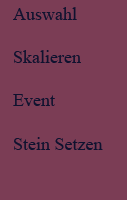
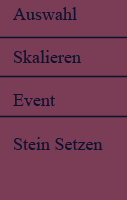
Auswahlmodus fast fertig

Changed region(s): [[0.0, 0.57, 1.0, 0.6], [0.0, 0.36, 1.0, 0.39], [0.0, 0.18, 1.0, 0.21]]

diff --git a/LevelEditor/LevelEditor/LevelEditor/Eventhandler.cpp b/LevelEditor/LevelEditor/LevelEditor/Eventhandler.cpp
@@ -1,8 +1,19 @@
 #include "EventHandler.h"
 
-void S_EventHandler::handle_events(SDL_Event even)
+void S_EventHandler::handle_events(SDL_Event even,bool & quitgame)
 {
-	S_Overlay::get_Overlay().handle_Events(even);
+	S_Overlay::get_Overlay().handle_Events(even,quitgame);
+
+	if(S_LevelEditor::get_LevelEditor().get_ChoiceMode() == true)
+	{
+		if(even.type == SDL_MOUSEBUTTONDOWN)
+		{
+			if(even.button.button == SDL_BUTTON_LEFT)
+			{
+			S_CollisibalObjectManager::get_CManager().find(even.button.x,even.button.y);
+			}
+		}
+	}
 
 	if(even.type == SDL_KEYDOWN)
 	{
@@ -13,7 +24,10 @@ void S_EventHandler::handle_events(SDL_Event even)
 		case(SDLK_DOWN):S_LevelEditor::get_LevelEditor().get_MainEditorSource()->set_Position(S_LevelEditor::get_LevelEditor().get_MainEditorSource()->get_Position()->x,S_LevelEditor::get_LevelEditor().get_MainEditorSource()->get_Position()->y + 10);KeyPressTimer->start();b_Down = true;break;
 		case(SDLK_RIGHT):S_LevelEditor::get_LevelEditor().get_MainEditorSource()->set_Position(S_LevelEditor::get_LevelEditor().get_MainEditorSource()->get_Position()->x + 10,S_LevelEditor::get_LevelEditor().get_MainEditorSource()->get_Position()->y);KeyPressTimer->start();b_Right = true;break;
 		case(SDLK_LEFT):S_LevelEditor::get_LevelEditor().get_MainEditorSource()->set_Position(S_LevelEditor::get_LevelEditor().get_MainEditorSource()->get_Position()->x - 10,S_LevelEditor::get_LevelEditor().get_MainEditorSource()->get_Position()->y);KeyPressTimer->start();b_Left = true;break;
+		if(S_LevelEditor::get_LevelEditor().get_BlockSetMode() == true)
+		{
 		case(SDLK_SPACE):S_CollisibalObjectManager::get_CManager().set_Object(Block100x100,S_LevelEditor::get_LevelEditor().get_MainEditorSource()->get_Position()->x,S_LevelEditor::get_LevelEditor().get_MainEditorSource()->get_Position()->y);break;
+		}
 		}
 	}
 
@@ -21,7 +35,7 @@ void S_EventHandler::handle_events(SDL_Event even)
 	{
 		switch(even.key.keysym.sym)
 		{
-			case(SDLK_UP):b_Up = false; break;
+		case(SDLK_UP):b_Up = false; break;
 		case(SDLK_DOWN):b_Down = false;break;
 		case(SDLK_RIGHT):b_Right = false;break;
 		case(SDLK_LEFT):b_Left = false;break;

diff --git a/LevelEditor/LevelEditor/LevelEditor/S_CollisibalObjectManager.cpp b/LevelEditor/LevelEditor/LevelEditor/S_CollisibalObjectManager.cpp
@@ -1,4 +1,5 @@
 #include "CollisibalObjectManager.h"
+#include "LevelEditor.h"
 
 
 void S_CollisibalObjectManager::set_Object(OBJECTTYPE CURRENTOBJECT,int x, int y)
@@ -24,4 +25,43 @@ void S_CollisibalObjectManager::render()
 	{
 		myIter->render();
 	}
+}
+
+C_Block * S_CollisibalObjectManager::get_WorkingListsFirstMember()
+{
+	return &Workinglist.front();
+}
+
+void S_CollisibalObjectManager::find(int x, int y)
+{
+	if(this->Workinglist.size() == 0)
+	{
+		for(list<C_Block>::iterator myIter = Blocklist.begin();myIter != this->Blocklist.end();++myIter)
+		{
+			if(myIter->get_Position()->x <= x && myIter->get_Position()->x + 100 >= x && myIter->get_Position()->y <= y && myIter->get_Position()->y + 100 >= y)
+			{
+				Workinglist.push_back(C_Block(myIter->get_Position()->x,myIter->get_Position()->y));
+				S_LevelEditor::get_LevelEditor().get_MainEditorSource()->set_Position(myIter->get_Position()->x,myIter->get_Position()->y);
+				Blocklist.erase(myIter);
+				break;
+			}
+		}
+
+	}
+	else if(Workinglist.size() == 1)
+	{
+		for(list<C_Block>::iterator myIter = Blocklist.begin();myIter != this->Blocklist.end();++myIter)
+		{
+			if(myIter->get_Position()->x <= x && myIter->get_Position()->x + 100 >= x && myIter->get_Position()->y <= y && myIter->get_Position()->y + 100 >= y)
+			{
+				Workinglist.push_back(C_Block(myIter->get_Position()->x,myIter->get_Position()->y));
+				Blocklist.push_back(C_Block(Workinglist.front().get_Position()->x,Workinglist.front().get_Position()->y));
+				Workinglist.pop_front();
+				S_LevelEditor::get_LevelEditor().get_MainEditorSource()->set_Position(myIter->get_Position()->x,myIter->get_Position()->y);
+				Blocklist.erase(myIter);
+				break;
+			}
+		}
+	}
+
 }

diff --git a/LevelEditor/LevelEditor/LevelEditor/Overlay.cpp b/LevelEditor/LevelEditor/LevelEditor/Overlay.cpp
@@ -24,7 +24,7 @@ void S_Overlay::render(Editor * p_CurrentMainEditor)
 }
 
 
-void S_Overlay::handle_Events(SDL_Event even)
+void S_Overlay::handle_Events(SDL_Event even,bool & quitgame)
 {
 	if (even.type == SDL_MOUSEBUTTONDOWN)
 	{
@@ -56,6 +56,30 @@ void S_Overlay::handle_Events(SDL_Event even)
 				this->b_startSelected = false;
 				this->b_nothingSelected = false;
 				this->b_choiceSelected = true;
+				}
+			}
+
+
+			if(b_nothingSelected == true)
+			{
+				return;
+			}
+			else if(b_startSelected == true)
+			{
+				if(even.button.x > 0 && even.button.x <= 97 && even.button.y > 40 && even.button.y <= 80 )
+				{
+					S_LevelEditor::get_LevelEditor().load_Level();
+				}
+				else if(even.button.x > 0 && even.button.x <= 97 && even.button.y > 80 && even.button.y <= 126 )
+				{
+					S_LevelEditor::get_LevelEditor().save_Level();
+				}
+				else if(even.button.x > 0 && even.button.x <= 97 && even.button.y > 126 && even.button.y <= 170 )
+				{
+				}
+				else if(even.button.x > 0 && even.button.x <= 97 && even.button.y > 170 && even.button.y <= 240  )
+				{
+					quitgame = true;
 				}
 			}
 		}

diff --git a/LevelEditor/LevelEditor/LevelEditor/CollisibalObjectManager.h b/LevelEditor/LevelEditor/LevelEditor/CollisibalObjectManager.h
@@ -6,6 +6,8 @@
 #include <iostream>
 #include "globals.h"
 
+class S_LevelEditor;
+
 using namespace std;
 
 
@@ -13,6 +15,7 @@ class S_CollisibalObjectManager
 {
 private:
 	list<C_Block> Blocklist;
+	list<C_Block> Workinglist;
 
 	S_CollisibalObjectManager(){}
 	~S_CollisibalObjectManager(){}
@@ -20,6 +23,8 @@ private:
 public:
 	static S_CollisibalObjectManager & get_CManager(){static S_CollisibalObjectManager Instance;return Instance;}
 	void set_Object(OBJECTTYPE CURRENTOBJECT,int x, int y);
+	C_Block * get_WorkingListsFirstMember();
+	void find(int x, int y);//Funktion findet das Element, auf das geklickt wurde und tut es in die Bearbeitungsliste, wenn bearbeitungsliste nicht leer, wird das element us der bearbeitungsliste wieder wie vorher gerendert
 	void show_Insertions();
 	void render();
 };

diff --git a/LevelEditor/LevelEditor/LevelEditor/GameApplicationLayer.cpp b/LevelEditor/LevelEditor/LevelEditor/GameApplicationLayer.cpp
@@ -14,8 +14,9 @@ void GameApplicationLayer::game_Loop()
 	//erstellen der Anfangsinstanzen
 	SDL_Init(SDL_INIT_EVERYTHING);
 
+	b_quitgame = false;
 	//Beginn der eigentlichen Schleife
-	while(this->b_quitgame == false)
+	while(b_quitgame == false)
 	{
 		
 		if(SDL_PollEvent(&even))
@@ -27,7 +28,7 @@ void GameApplicationLayer::game_Loop()
 			}
 			else
 			{
-				S_EventHandler::get_EventHandler().handle_events(this->even);
+				S_EventHandler::get_EventHandler().handle_events(this->even,b_quitgame);
 			}
 		}
 		S_LevelEditor::get_LevelEditor().update();

diff --git a/LevelEditor/LevelEditor/LevelEditor/GameApplicationLayer.h b/LevelEditor/LevelEditor/LevelEditor/GameApplicationLayer.h
@@ -6,6 +6,7 @@
 #include "CBlock.h"
 #include "EventHandler.h"
 #include "LevelEditor.h"
+#include "globals.h"
 
 
 
@@ -15,7 +16,7 @@ private:
 	SDL_Event even;
 	bool b_quitgame;
 public:
-	GameApplicationLayer():b_quitgame(false){}
+	GameApplicationLayer():b_quitgame(0){}
 	~GameApplicationLayer(){}
 	void initialize_GameResources();
 	void game_Loop();

diff --git a/LevelEditor/LevelEditor/LevelEditor/EventHandler.h b/LevelEditor/LevelEditor/LevelEditor/EventHandler.h
@@ -21,7 +21,7 @@ private:
 	bool b_Right;
 	Timer * KeyPressTimer;
 public:
-	void handle_events(SDL_Event even);
+	void handle_events(SDL_Event even,bool & quitgame);
 	static S_EventHandler & get_EventHandler(){static S_EventHandler Instance; return Instance;}
 	void initialize(){}
 	void updateEditorsEvents();

diff --git a/LevelEditor/LevelEditor/LevelEditor/Overlay.h b/LevelEditor/LevelEditor/LevelEditor/Overlay.h
@@ -15,7 +15,7 @@ private:
 public:
 	static S_Overlay & get_Overlay(){static S_Overlay Instance; return Instance;}
 	void render(Editor*);
-	void handle_Events(SDL_Event even);
+	void handle_Events(SDL_Event even,bool & quitgame);
 	void debugFunctionShow();
 };
 

diff --git a/LevelEditor/LevelEditor/LevelEditor/LevelEditor.cpp b/LevelEditor/LevelEditor/LevelEditor/LevelEditor.cpp
@@ -24,3 +24,13 @@ void S_LevelEditor::update()
 {
 	S_EventHandler::get_EventHandler().updateEditorsEvents();
 }
+
+void S_LevelEditor::load_Level()
+{
+	cout << "Laden" << endl;
+}
+
+void S_LevelEditor::save_Level()
+{
+	cout << "Speichern" << endl;
+}

diff --git a/LevelEditor/LevelEditor/LevelEditor/globals.h b/LevelEditor/LevelEditor/LevelEditor/globals.h
@@ -1,7 +1,6 @@
 #ifndef GLOBALS
 #define GLOBALS
 
-
 enum OBJECTTYPE {Block100x100,Block200x200,Block100x200,Block200x100};
 
 #endif
